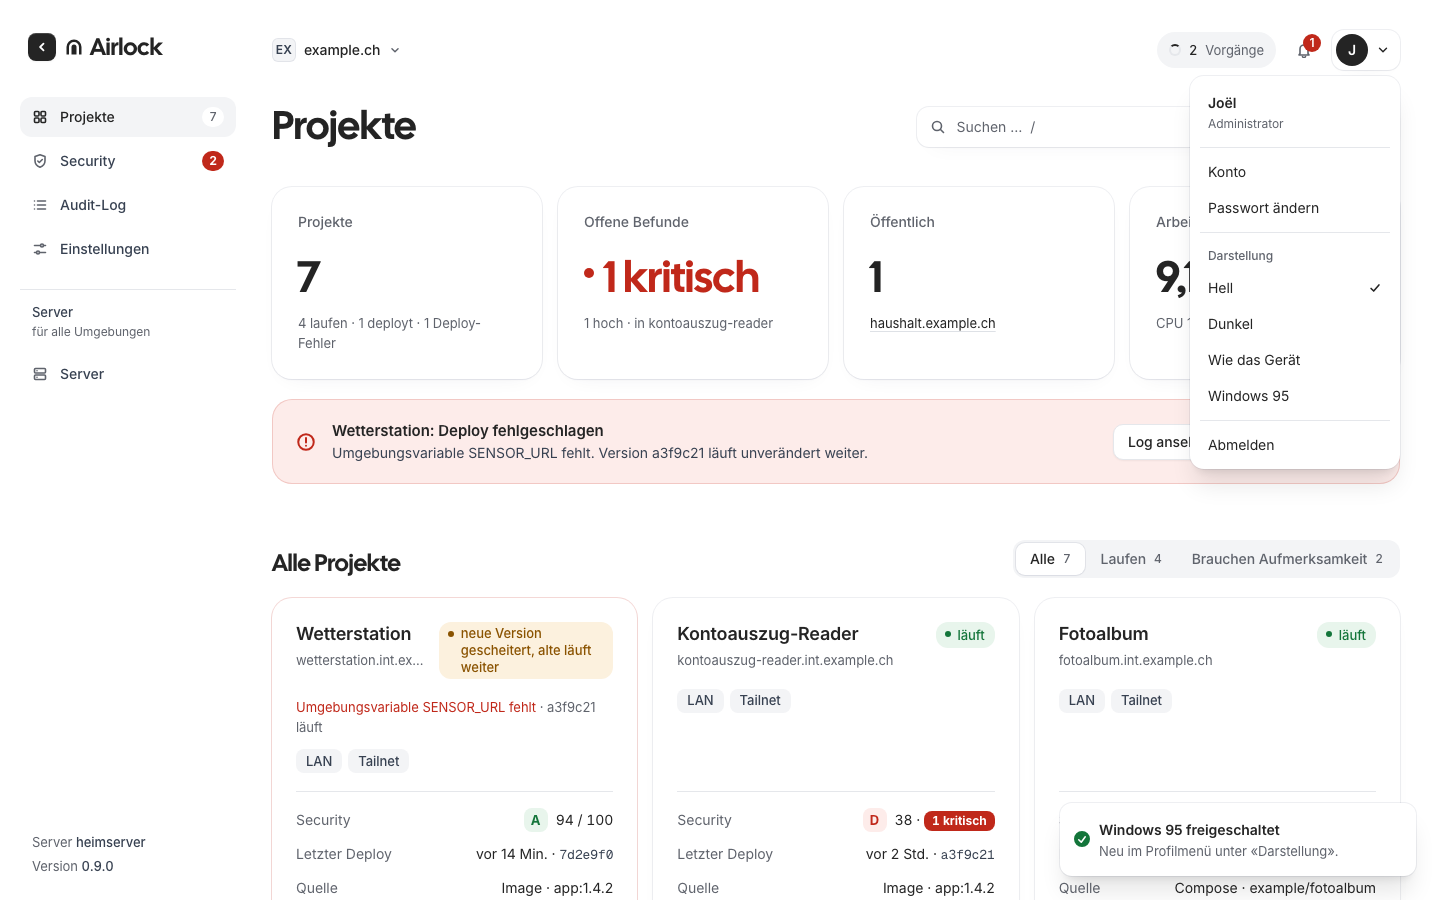
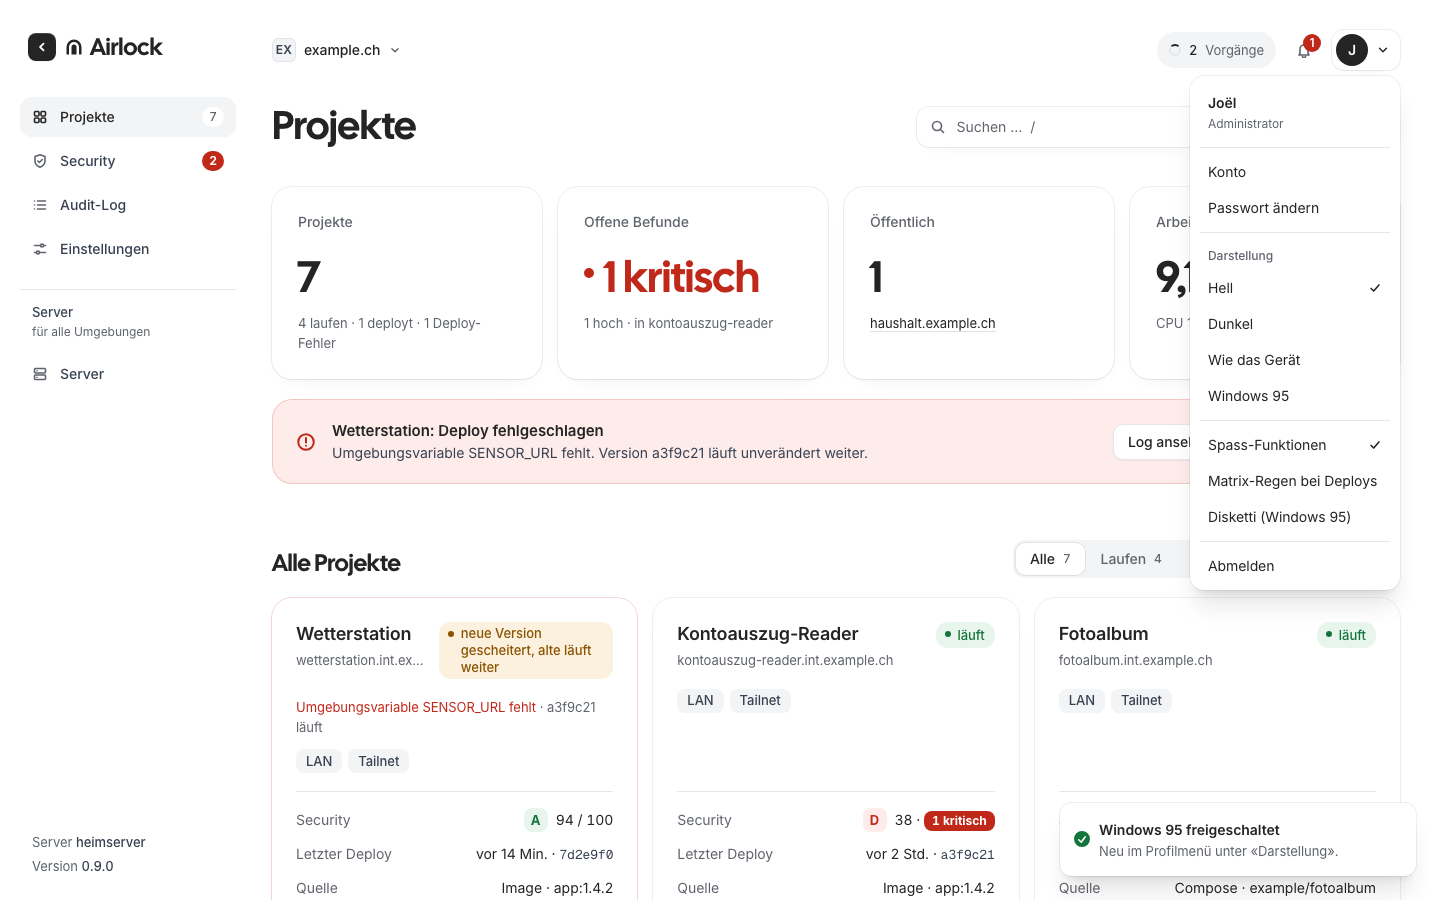
Achievements ohne eigenes Polling (Anfragen-Budget), neu prüfen bei Änderungen in der Projektliste und nach Freischaltungen
Bewusst geänderte Bilder: win95-freigeschaltet-hell/-dunkel – das Profilmenü zeigt nach der
Freischaltung die neue Gruppe «Spass» (mit Disketti, da Windows 95 jetzt freigeschaltet ist).

Changed region(s): [[0.8125, 0.4667, 0.9688, 0.6844]]

diff --git a/packages/web/src/components/Achievements.tsx b/packages/web/src/components/Achievements.tsx
@@ -23,8 +23,14 @@ import { IconCheck } from './Icons.js'
  */
 export const achievementsKey = ['achievements'] as const
 
+/**
+ * Kein eigenes Polling (Anfragen-Budget, visual/anfragen.spec.ts): neu geprüft wird beim
+ * Laden, wenn das Fenster wieder in den Vordergrund kommt und wenn sich in der Projektliste
+ * etwas ändert, das ein Achievement auslösen kann (AchievementWatcher), sowie nach einer
+ * Freischaltung (useUnlock).
+ */
 export function useAchievements(enabled: boolean) {
-  return useQuery({ queryKey: achievementsKey, queryFn: api.achievements, enabled, refetchInterval: 60_000 })
+  return useQuery({ queryKey: achievementsKey, queryFn: api.achievements, enabled, staleTime: 5 * 60_000, refetchOnWindowFocus: true })
 }
 
 /**
@@ -50,9 +56,13 @@ export function AchievementWatcher() {
   const reduced = useReducedMotion()
   const ach = useAchievements(prefs.fun)
   const projects = useProjects()
-  // Ein Deploy wird fertig (Zustand des letzten Deploys ändert sich): gleich nachsehen
+  // Ein Deploy wird fertig, ein Scan liefert eine Note, ein Projekt wird öffentlich: gleich nachsehen
+  // (die Projektliste kommt über den Ereignisstrom, also ohne eigenes Polling)
   const deploySignature = useMemo(
-    () => (projects.data?.projects ?? []).map((p) => `${p?.lastDeployment?.id}:${p?.lastDeployment?.status}`).join('|'),
+    () => (projects.data?.projects ?? []).map((p) => [
+      p?.lastDeployment?.id, p?.lastDeployment?.status, p?.security?.scanId, p?.security?.status, p?.security?.grade,
+      (p?.routes ?? []).some((r) => r.target === 'public'),
+    ].join(':')).join('|'),
     [projects.data],
   )
   const first = useRef(true)

diff --git a/packages/web/src/components/Win95.tsx b/packages/web/src/components/Win95.tsx
@@ -36,6 +36,8 @@ export function useUnlock(id: UnlockId, notice: { title: string; description: st
     patch((list) => (list.includes(id) ? list : [...list, id]))
     notifyOk(title, { id, description })
     api.unlock(id)
+      // Etappe 7: «Geheimnisse gefunden» könnte jetzt erreicht sein
+      .then(() => qc.invalidateQueries({ queryKey: ['achievements'] }))
       .catch(() => patch((list) => list.filter((x) => x !== id)))
       .finally(() => { busy.current = false })
   }, [qc, id, title, description])
